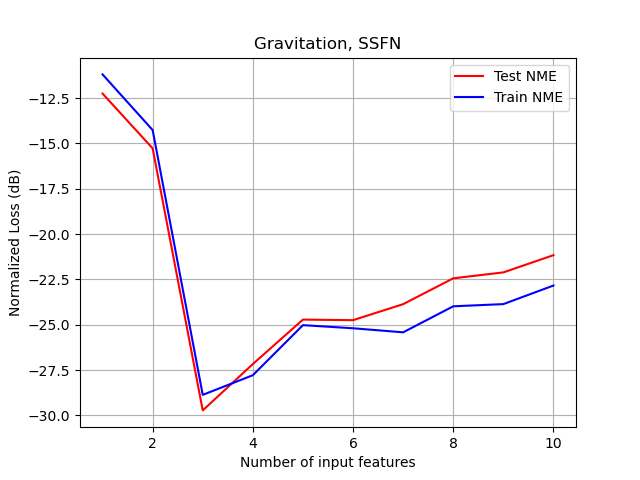
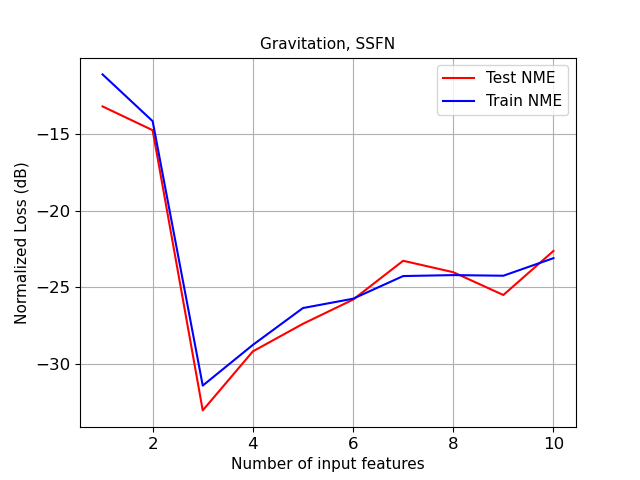
Fonbt Size Update

diff --git a/main.py b/main.py
@@ -10,14 +10,14 @@ from joblib import Parallel, delayed
 
 def define_parser():
     parser = argparse.ArgumentParser(description="Run progressive learning")
-    parser.add_argument("--data", default="MNIST", help="Input dataset available as the paper shows")
+    parser.add_argument("--data", default="Ohm", help="Input dataset available as the paper shows")
     parser.add_argument("--lam", type=float, default=10**(2), help="Reguralized parameters on the least-square problem")
     parser.add_argument("--mu", type=float, default=10**(3), help="Parameter for ADMM")
     parser.add_argument("--kMax", type=int, default=100, help="Iteration number of ADMM")
     parser.add_argument("--NodeNum", type=int, default=100, help="Max number of random nodes on each layer")
-    parser.add_argument("--LayerNum", type=int, default=1, help="Parameter for ADMM")
+    parser.add_argument("--LayerNum", type=int, default=5, help="Parameter for ADMM")
     parser.add_argument("--J", type=int, default=1000, help="Sample Size")
-    parser.add_argument("--Pextra", type=int, default=0, help="Number of extra random features")
+    parser.add_argument("--Pextra", type=int, default=8, help="Number of extra random features")
     args = parser.parse_args()
     return args
 
@@ -115,6 +115,9 @@ def Err_vs_feat(args):
 
     J = SSFN_hparameters["J"]
     Pextra = SSFN_hparameters["Pextra"]
+    data = SSFN_hparameters["data"]
+    LayerNum = SSFN_hparameters["LayerNum"]
+    NodeNum = SSFN_hparameters["NodeNum"]
 
     X_train, X_test, T_train, T_test = define_dataset(args)
     X_train = X_train[:,:int(round(0.9*J))] 
@@ -124,20 +127,19 @@ def Err_vs_feat(args):
 
     Ntr = X_train.shape[1]
     Nts = X_test.shape[1]
-    # X_train = np.concatenate((X_train, (10)*np.random.rand(Pextra,Ntr)+10), axis=0)
-    # X_test = np.concatenate(( X_test, (10)*np.random.rand(Pextra,Nts)+10), axis=0)
 
-    X_train = 1 - X_train
-    X_test = 1 - X_test
+    if data!="MNIST":
+        X_train = np.concatenate((X_train, (10)*np.random.rand(Pextra,Ntr)+10), axis=0)
+        X_test = np.concatenate(( X_test, (10)*np.random.rand(Pextra,Nts)+10), axis=0)
+
+    if data=="MNIST":
+        X_train = 1 - X_train
+        X_test = 1 - X_test
         
     parameters_path = "./parameters/"
     result_path = "./results/"
     LA = "None"
 
-    data = SSFN_hparameters["data"]
-    LayerNum = SSFN_hparameters["LayerNum"]
-    NodeNum = SSFN_hparameters["NodeNum"]
-    
     # train_error, test_error = SSFN( X_train, X_test, T_train, T_test, SSFN_hparameters)
 
     P=X_train.shape[0]
@@ -187,29 +189,33 @@ def Err_vs_feat(args):
     output_dic["sorted_ind"]=sorted_ind 
     save_dic(output_dic, parameters_path, data, "sorted_ind")
 
+    FontSize = 11
     csfont = {'fontname':'sans-serif'}
     plt.subplots()
     plt.plot(np.arange(1,P+1), test_error_sorted, 'r-', label="Test NME")
     plt.plot(np.arange(1,P+1), train_error_sorted, 'b-', label="Train NME")
-    plt.legend(loc='best')
+    plt.legend(loc='best', fontsize=FontSize)
     plt.grid()
-    plt.xlabel("Number of input features",fontdict=csfont)
-    plt.ylabel("Normalized Loss (dB)",fontdict=csfont)
-    plt.title(data+", SSFN", loc='center')
+    plt.xlabel("Number of input features",fontdict=csfont, fontsize=FontSize)
+    plt.ylabel("Normalized Loss (dB)",fontdict=csfont, fontsize=FontSize)
+    plt.title(data+", SSFN", loc='center', fontsize=FontSize)
+    plt.xticks(fontsize=FontSize+2)
+    plt.yticks(fontsize=FontSize+2)
     plt.savefig(result_path +"Err_vs_index_J"+str(J)+"_L"+str(LayerNum)+"_node"+str(NodeNum)+"_"+data+".png")
     plt.close()
 
-    csfont = {'fontname':'sans-serif'}
-    plt.subplots()
-    plt.plot(np.arange(1,P+1), test_acc_sorted, 'r-', label="Test Accuracy")
-    plt.plot(np.arange(1,P+1), train_acc_sorted, 'b-', label="Train Accuracy")
-    plt.legend(loc='best')
-    plt.grid()
-    plt.xlabel("Number of input features",fontdict=csfont)
-    plt.ylabel("Classification accuracy",fontdict=csfont)
-    plt.title(data+", SSFN", loc='center')
-    plt.savefig(result_path +"Acc_vs_index_J"+str(J)+"_L"+str(LayerNum)+"_node"+str(NodeNum)+"_"+data+".png")
-    plt.close()
+    if data=="MNIST":
+        csfont = {'fontname':'sans-serif'}
+        plt.subplots()
+        plt.plot(np.arange(1,P+1), test_acc_sorted, 'r-', label="Test Accuracy")
+        plt.plot(np.arange(1,P+1), train_acc_sorted, 'b-', label="Train Accuracy")
+        plt.legend(loc='best')
+        plt.grid()
+        plt.xlabel("Number of input features",fontdict=csfont)
+        plt.ylabel("Classification accuracy",fontdict=csfont)
+        plt.title(data+", SSFN", loc='center')
+        plt.savefig(result_path +"Acc_vs_index_J"+str(J)+"_L"+str(LayerNum)+"_node"+str(NodeNum)+"_"+data+".png")
+        plt.close()
 
 def MonteCarlo_NMP(J,Pextra,LA,args):
     """[This function is used for parallel processing when doing Monte Carlo trials. 
